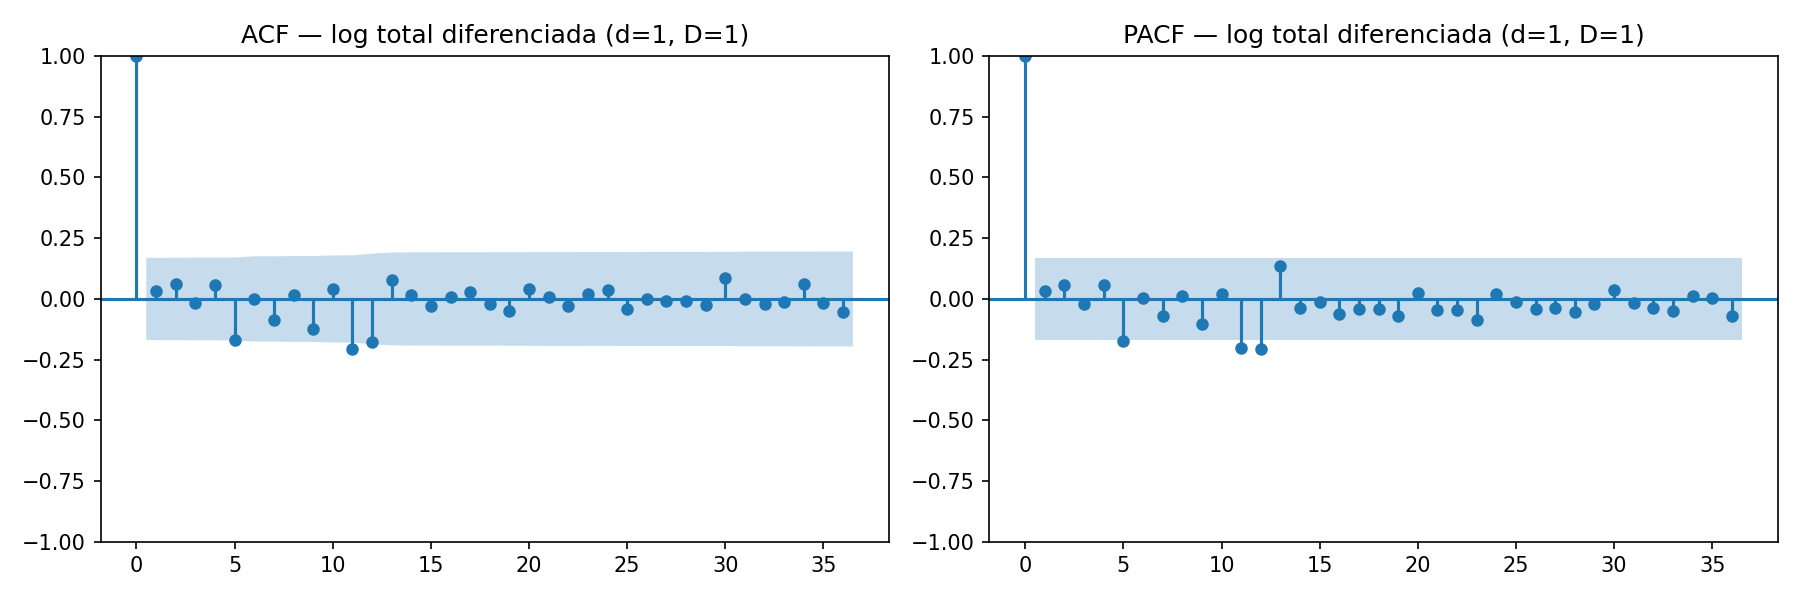
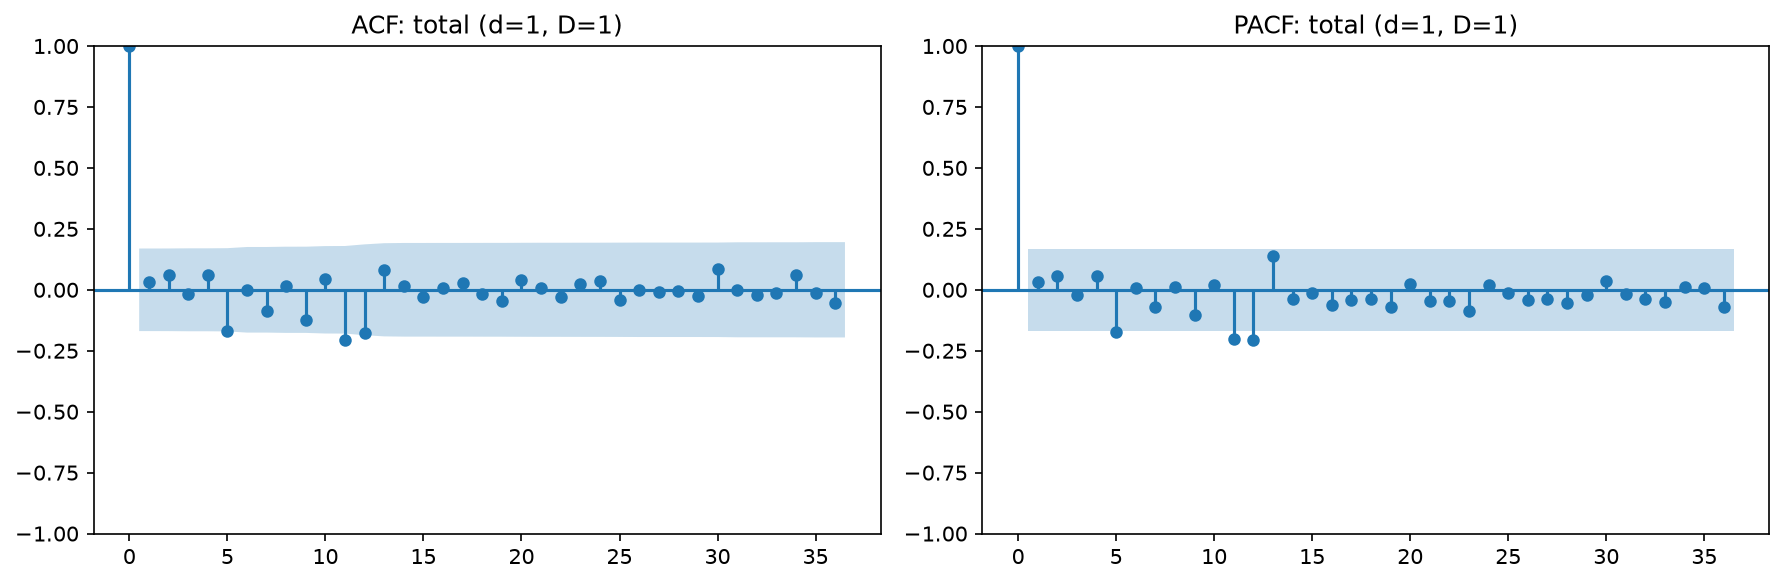
feat(diagnostico): analisis de estacionariedad para las 7 series

diff --git a/src/diagnostico.py b/src/diagnostico.py
@@ -1,0 +1,203 @@
+from pathlib import Path
+
+import matplotlib.pyplot as plt
+import numpy as np
+import pandas as pd
+from statsmodels.graphics.tsaplots import plot_acf, plot_pacf
+from statsmodels.tsa.seasonal import seasonal_decompose
+from statsmodels.tsa.stattools import adfuller
+
+from src.utils import RUTA_FIGURAS
+
+
+def _adf(serie: pd.Series) -> dict:
+    resultado = adfuller(serie.dropna(), autolag="AIC")
+    return {
+        "estadistico": resultado[0],
+        "p_valor": resultado[1],
+        "rezagos": resultado[2],
+        "n": resultado[3],
+    }
+
+
+def _guardar(figura: plt.Figure, ruta: Path) -> None:
+    figura.tight_layout()
+    figura.savefig(ruta, dpi=150, bbox_inches="tight")
+    plt.close(figura)
+
+
+def _figura_nivel(
+    clave: str,
+    serie: pd.Series,
+    color: str,
+    ruta: Path,
+) -> None:
+    figura, eje = plt.subplots(figsize=(11, 4))
+    eje.plot(serie.index, serie, color=color)
+    eje.axvspan(
+        pd.Timestamp("2020-03-01"),
+        pd.Timestamp("2021-03-01"),
+        color="tab:red",
+        alpha=0.12,
+    )
+    eje.set(
+        title=f"Serie mensual: {clave}",
+        xlabel="Fecha",
+        ylabel="Viajeros",
+    )
+    _guardar(figura, ruta)
+
+
+def _figura_descomposicion(
+    clave: str,
+    serie_log: pd.Series,
+    ruta: Path,
+) -> pd.Series:
+    descomposicion = seasonal_decompose(
+        serie_log,
+        model="additive",
+        period=12,
+        extrapolate_trend="freq",
+    )
+    figura = descomposicion.plot()
+    figura.set_size_inches(11, 8)
+    figura.suptitle(f"Descomposición aditiva de log1p: {clave}", y=1.01)
+    _guardar(figura, ruta)
+    return descomposicion.seasonal
+
+
+def _figura_log(
+    clave: str,
+    serie: pd.Series,
+    serie_log: pd.Series,
+    color: str,
+    ruta: Path,
+) -> None:
+    figura, ejes = plt.subplots(1, 2, figsize=(12, 4))
+    ejes[0].plot(serie.index, serie, color=color)
+    ejes[0].set_title(f"{clave}: original")
+    ejes[1].plot(serie_log.index, serie_log, color=color)
+    ejes[1].set_title(f"{clave}: log1p")
+    for eje in ejes:
+        eje.set_xlabel("Fecha")
+    _guardar(figura, ruta)
+
+
+def _figura_correlacion(
+    clave: str,
+    serie: pd.Series,
+    ruta: Path,
+    diferenciada: bool,
+) -> None:
+    figura, ejes = plt.subplots(1, 2, figsize=(12, 4))
+    plot_acf(serie, lags=36, ax=ejes[0])
+    plot_pacf(serie, lags=36, ax=ejes[1], method="ywm")
+    estado = "d=1, D=1" if diferenciada else "niveles log1p"
+    ejes[0].set_title(f"ACF: {clave} ({estado})")
+    ejes[1].set_title(f"PACF: {clave} ({estado})")
+    _guardar(figura, ruta)
+
+
+def _factores_estacionales(serie_log: pd.Series) -> tuple[str, str]:
+    prepandemia = serie_log.loc[:"2019-12-01"]
+    factores = np.exp(
+        prepandemia.groupby(prepandemia.index.month).mean()
+        - prepandemia.mean()
+    )
+    nombres = pd.Series(
+        [
+            "enero",
+            "febrero",
+            "marzo",
+            "abril",
+            "mayo",
+            "junio",
+            "julio",
+            "agosto",
+            "septiembre",
+            "octubre",
+            "noviembre",
+            "diciembre",
+        ],
+        index=range(1, 13),
+    )
+    return (
+        f"{nombres[factores.idxmax()]} ({factores.max():.3f})",
+        f"{nombres[factores.idxmin()]} ({factores.min():.3f})",
+    )
+
+
+def analizar_serie(
+    clave: str,
+    serie: pd.Series,
+    color: str = "tab:blue",
+    ruta_figuras: Path = RUTA_FIGURAS,
+) -> dict:
+    ruta_figuras.mkdir(parents=True, exist_ok=True)
+    serie = serie.astype(float).asfreq("MS")
+    serie_log = np.log1p(serie)
+    d1 = serie_log.diff().dropna()
+    d1_d1 = d1.diff(12).dropna()
+    d2 = serie_log.diff(2).dropna()
+
+    _figura_nivel(
+        clave,
+        serie,
+        color,
+        ruta_figuras / f"serie_{clave}_nivel.png",
+    )
+    estacional = _figura_descomposicion(
+        clave,
+        serie_log,
+        ruta_figuras / f"serie_{clave}_descomposicion.png",
+    )
+    _figura_log(
+        clave,
+        serie,
+        serie_log,
+        color,
+        ruta_figuras / f"serie_{clave}_log.png",
+    )
+    _figura_correlacion(
+        clave,
+        serie_log,
+        ruta_figuras / f"serie_{clave}_acf_niveles.png",
+        False,
+    )
+    _figura_correlacion(
+        clave,
+        d1_d1,
+        ruta_figuras / f"serie_{clave}_acf_diff.png",
+        True,
+    )
+
+    adf_niveles = _adf(serie_log)
+    adf_d1 = _adf(d1)
+    adf_d1_d1 = _adf(d1_d1)
+    adf_d2 = _adf(d2)
+    max_mes, min_mes = _factores_estacionales(serie_log)
+    d_sugerido = 1 if adf_d1["p_valor"] < 0.05 else 2
+
+    return {
+        "clave": clave,
+        "n": len(serie),
+        "inicio": serie.index.min().strftime("%Y-%m-%d"),
+        "fin": serie.index.max().strftime("%Y-%m-%d"),
+        "media": serie.mean(),
+        "min": serie.min(),
+        "fecha_min": serie.idxmin().strftime("%Y-%m-%d"),
+        "max": serie.max(),
+        "fecha_max": serie.idxmax().strftime("%Y-%m-%d"),
+        "n_ceros": int(serie.eq(0).sum()),
+        "std_2009_2013": serie.loc["2009":"2013"].std(),
+        "std_2014_2019": serie.loc["2014":"2019"].std(),
+        "adf_niveles": adf_niveles["p_valor"],
+        "adf_d1": adf_d1["p_valor"],
+        "adf_d1D1": adf_d1_d1["p_valor"],
+        "adf_d2": adf_d2["p_valor"],
+        "d_sugerido": d_sugerido,
+        "D_sugerido": 1,
+        "factor_max_mes": max_mes,
+        "factor_min_mes": min_mes,
+        "amplitud_estacional_log": estacional.max() - estacional.min(),
+    }

diff --git a/src/series.py b/src/series.py
@@ -94,12 +94,13 @@ def generar_series_test(output_dir: str) -> dict[str, pd.DataFrame]:
         ruta_completa = os.path.join(output_dir, nombre)
         nombre_train = nombre.replace(".csv", "_train.csv")
         ruta_train = os.path.join(output_dir, nombre_train)
-        completa = pd.read_csv(ruta_completa)
-        train = pd.read_csv(ruta_train)
+        completa = pd.read_csv(ruta_completa, dtype=str)
+        train = pd.read_csv(ruta_train, dtype=str)
         test = completa[completa["fecha"] >= FECHA_INICIO_TEST].reset_index(drop=True)
         _validar_particiones(completa, train, test)
         nombre_test = nombre.replace(".csv", "_test.csv")
         test.to_csv(os.path.join(output_dir, nombre_test), index=False)
+        test["viajeros"] = pd.to_numeric(test["viajeros"])
         resultado[nombre_test.removeprefix("serie_").removesuffix(".csv")] = test
 
     return resultado
